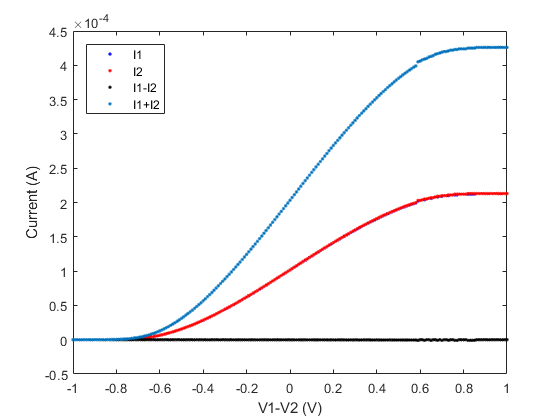
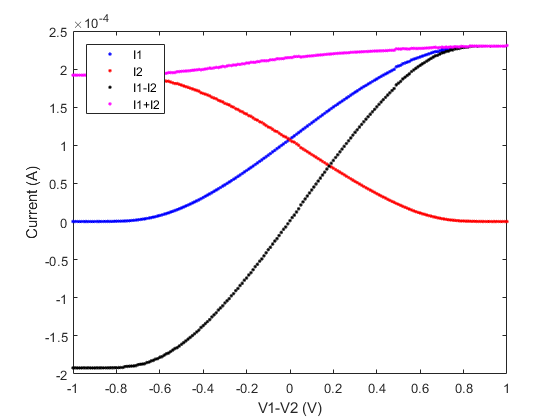
postlababove bias plots

diff --git a/Lab 7/Postlab7.m b/Lab 7/Postlab7.m
@@ -10,17 +10,17 @@ Isum4 = I1bb4 + I2bb4;
 
 plot(Vdm,I1bb2,'b.')
 hold on
-plot(Vdm,I2bb2,'b:','MarkerSize',20)
-plot(Vdm,Idiff2,'b.-')
-plot(Vdm,Isum2,'bx')
+plot(Vdm,I2bb2,'b.-')
+plot(Vdm,Idiff2,'b')
+plot(Vdm,Isum2,'b:')
 plot(Vdm,I1bb3,'r.')
-plot(Vdm,I2bb3,'r:')
-plot(Vdm,Idiff3,'r.-')
-plot(Vdm,Isum3,'rx')
+plot(Vdm,I2bb3,'r.-')
+plot(Vdm,Idiff3,'r')
+plot(Vdm,Isum3,'r:')
 plot(Vdm,I1bb4,'k.')
-plot(Vdm,I2bb4,'k:')
-plot(Vdm,Idiff4,'k.-')
-plot(Vdm,Isum4,'kx')
+plot(Vdm,I2bb4,'k.-')
+plot(Vdm,Idiff4,'k')
+plot(Vdm,Isum4,'k:')
 xlabel('V1-V2 (V)')
 ylabel('Current (A)')
 legend('I1,V2=2V','I2,V2=2V','I1-I2,V2=2V','I1+I2,V2=2V','I1,V2=3V','I2,V2=3V','I1-I2,V2=3V','I1+I2,V2=3V','I1,V2=4V','I2,V2=4V','I1-I2,V2=4V','I1+I2,V2=4V','Location','eastoutside')
@@ -34,6 +34,22 @@ xlabel('V1-V2 (V)')
 ylabel('Voltage @ Node V (V)')
 legend('V2=2V','V2=3V','V2=4V','Location','Northwest')
 
+Vdm2 = linspace(-1,1,301);
+Idiffab = I1ab - I2ab;
+Isumab = I1ab + I2ab;
+figure
+plot(Vdm2,I1ab,'b.')
+hold on
+plot(Vdm2,I2ab,'r.')
+plot(Vdm2,Idiffab,'k.')
+plot(Vdm2,Isumab,'c.')
+xlabel('V1-V2 (V)')
+ylabel('Current (A)')
+legend('I1','I2','I1-I2','I1+I2')
+figure 
+plot(Vdm2, Vab, '.')
+xlabel('V1-V2 (V)')
+ylabel('Voltage @ Node V (V)')
 
 %%
 Vx = vx(1:51);

diff --git a/Lab 7/lab7_jamie.m b/Lab 7/lab7_jamie.m
@@ -35,11 +35,11 @@ plot(Vdm,Isum3,'r:')
 plot(Vdm,I1bb4,'k.')
 plot(Vdm,I2bb4,'k.-')
 plot(Vdm,Idiff4,'k')
-plot(Vdm,Isum4,'ko','MarkerSize',5)
+plot(Vdm,Isum4,'k:','MarkerSize',5)
 xlabel('V1-V2 (V)')
 ylabel('Current (A)')
 legend('I1,V2=2V','I2,V2=2V','I1-I2,V2=2V','I1+I2,V2=2V','I1,V2=3V','I2,V2=3V','I1-I2,V2=3V','I1+I2,V2=3V','I1,V2=4V','I2,V2=4V','I1-I2,V2=4V','I1+I2,V2=4V','Location','eastoutside')
-
+%%
 figure
 plot(Vdm,Vbb2,'b.')
 hold on
@@ -75,18 +75,16 @@ ylim([-(10^(-6)) 10^(-6)])
 
 
 %%
-for i = 1:length(I2ab2)
-    I1(i) = I1ab2(length(I2ab2) + 1 - i);
-end
+load('Lab7NewABData.mat')
 figure
-Idiffab = I1 - I2ab2;
-Isumab = I1 + I2ab2;
+Idiffab = I1ab2 - I2ab2;
+Isumab = I1ab2 + I2ab2;
 figure
-plot(Vdm2,I1,'b.')
+plot(Vdm,I1ab2,'b.')
 hold on
-plot(Vdm2,I2ab2,'r.')
-plot(Vdm2,Idiffab,'k.')
-plot(Vdm2,Isumab,'m.')
+plot(Vdm,I2ab2,'r.')
+plot(Vdm,Idiffab,'k.')
+plot(Vdm,Isumab,'m.')
 xlabel('V1-V2 (V)')
 ylabel('Current (A)')
 legend('I1','I2','I1-I2','I1+I2','Location','northwest')
